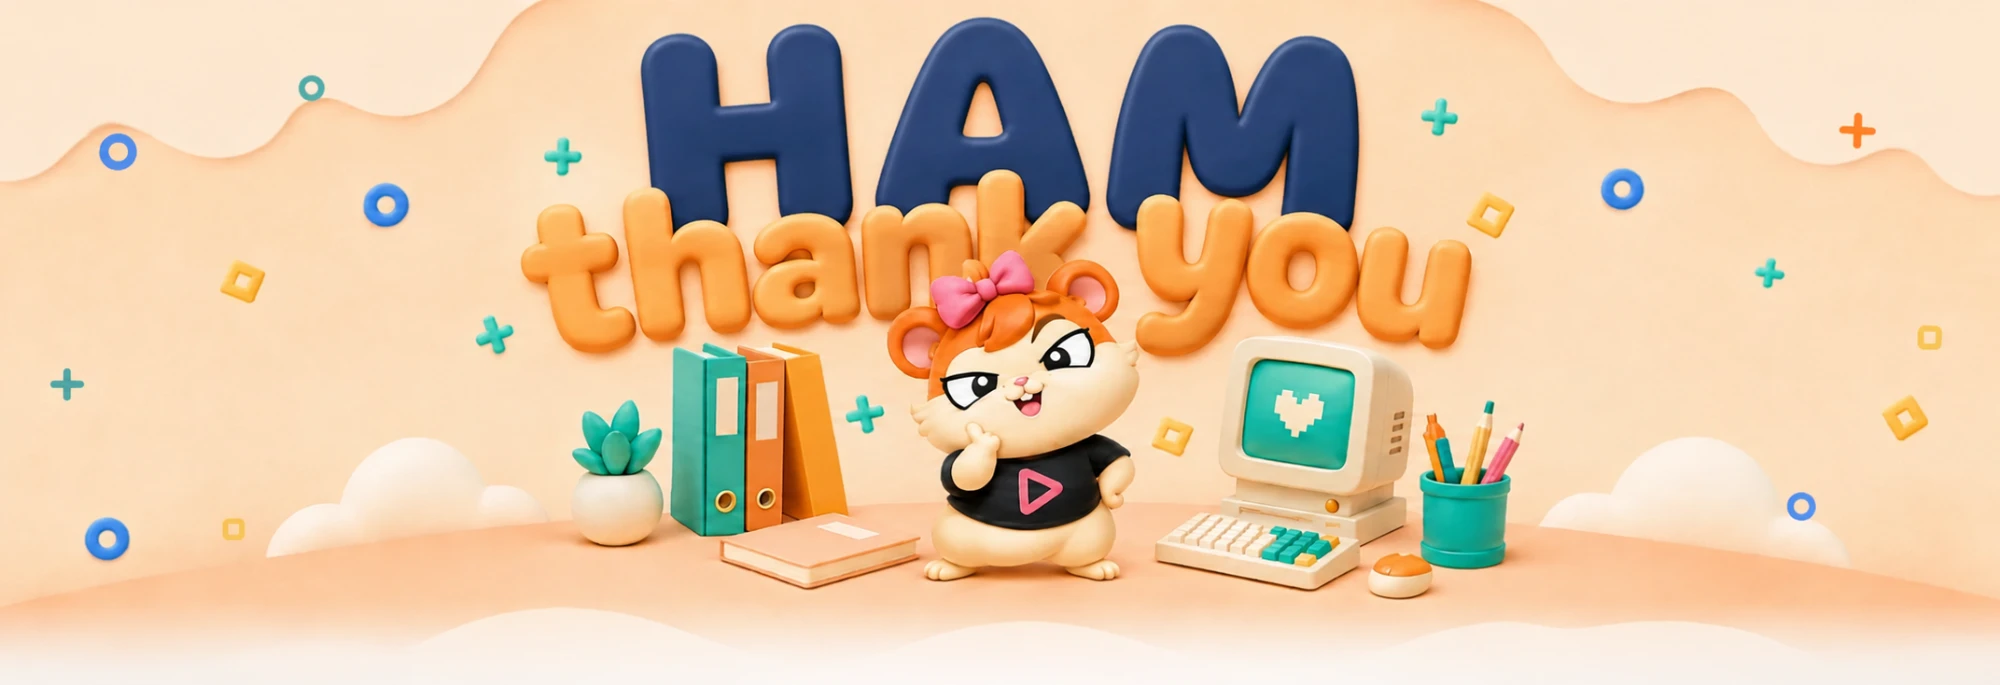
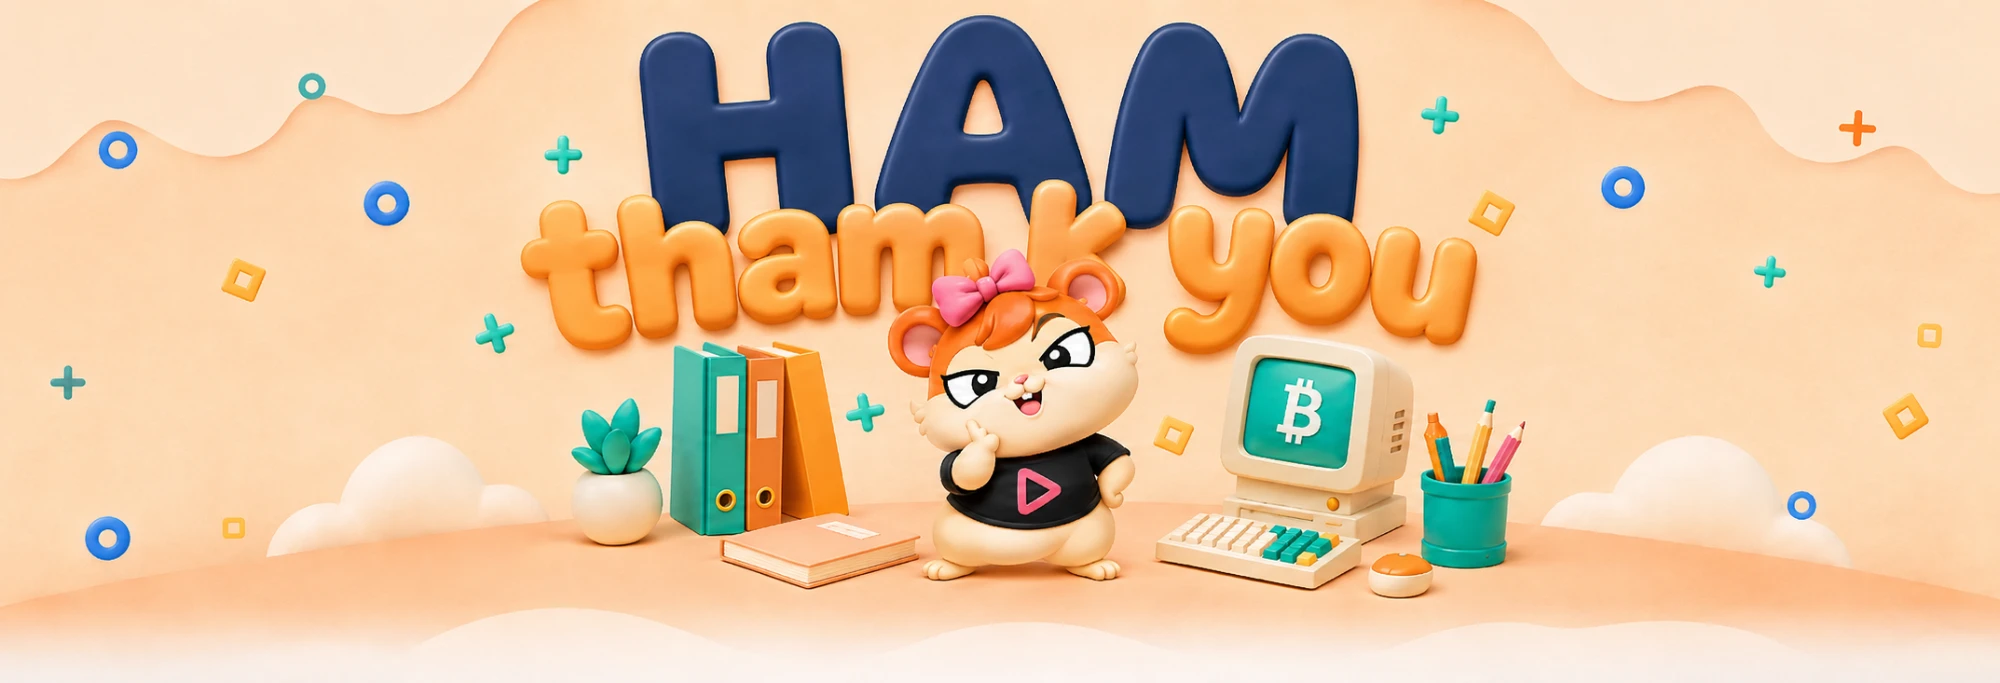
Swap the Thank You hero to the Bitcoin-monitor version
Same scene, with the monitor showing a Bitcoin symbol instead of the
pixel heart. Requested and confirmed as intentional.

Note that this artwork spells the wordmark "thamk you" — the letter after
"tha" is an m, not an n, which I confirmed by cropping both files at full
resolution and comparing. It was flagged before this went in and the
change was reaffirmed, so it ships as supplied. Replacing it later is a
two-file swap.

The alt text still reads "HAM thank you". Alt exists so a screen reader
user understands the image, and transcribing a rendering slip into it
would help nobody.

Mobile crop regenerated from the same source at the established
1060px-wide centre crop, and the intrinsic height on both the <source>
and the <img> updated from 685 to 683 to match the new file — stale
values there cause layout shift.

Verified in Chromium at 1440 and 390: each width loads its own file,
natural dimensions match the markup, no horizontal overflow, the hero
still fades into the section below with no seam, and the teacher gallery
is unaffected.

Claude-Session: https://claude.ai/code/session_013kTtF1icznq9uztL5hnTJk

diff --git a/thankyou.html b/thankyou.html
@@ -24,8 +24,8 @@
       <picture>
         <!-- Same scene, two crops: wide for desktop, tighter for phones so the
              wordmark and mascot stay large. Both run full-bleed. -->
-        <source media="(min-width: 769px)" srcset="assets/thankyou-hero-wide.webp" width="2000" height="685">
-        <img class="hero__art" src="assets/thankyou-hero-mobile.webp" width="1060" height="685"
+        <source media="(min-width: 769px)" srcset="assets/thankyou-hero-wide.webp" width="2000" height="683">
+        <img class="hero__art" src="assets/thankyou-hero-mobile.webp" width="1060" height="683"
              alt="HAM thank you — มาสคอตแฮมสเตอร์ของ HamsterHub ยืนอยู่กลางโต๊ะทำงาน">
       </picture>
     </div>
